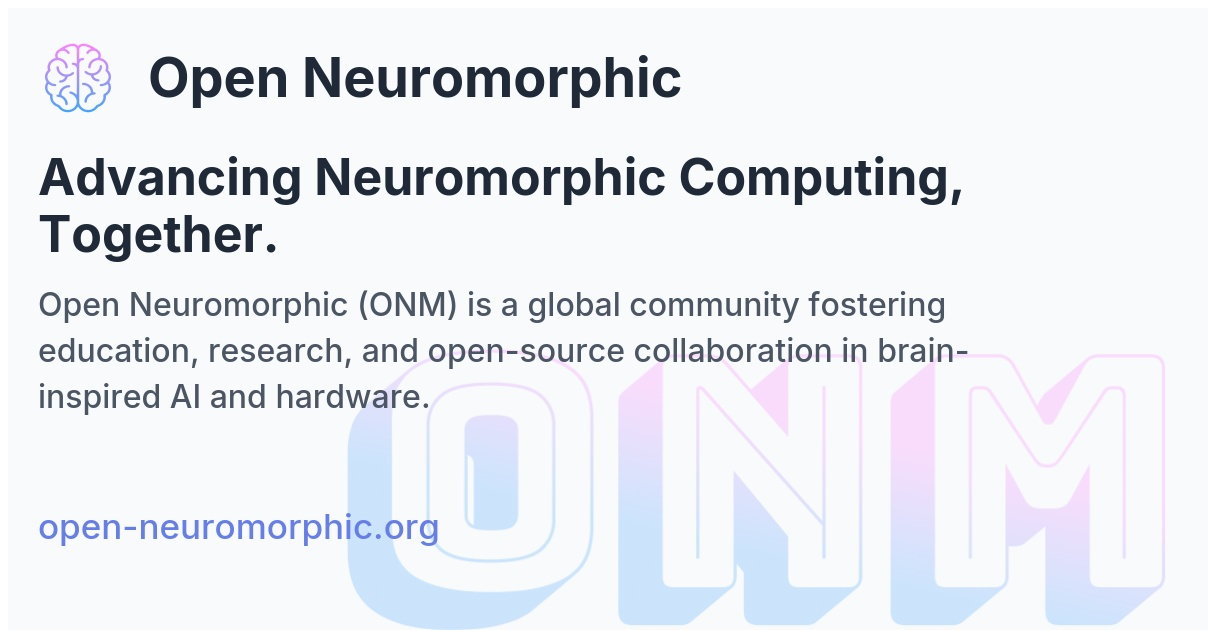
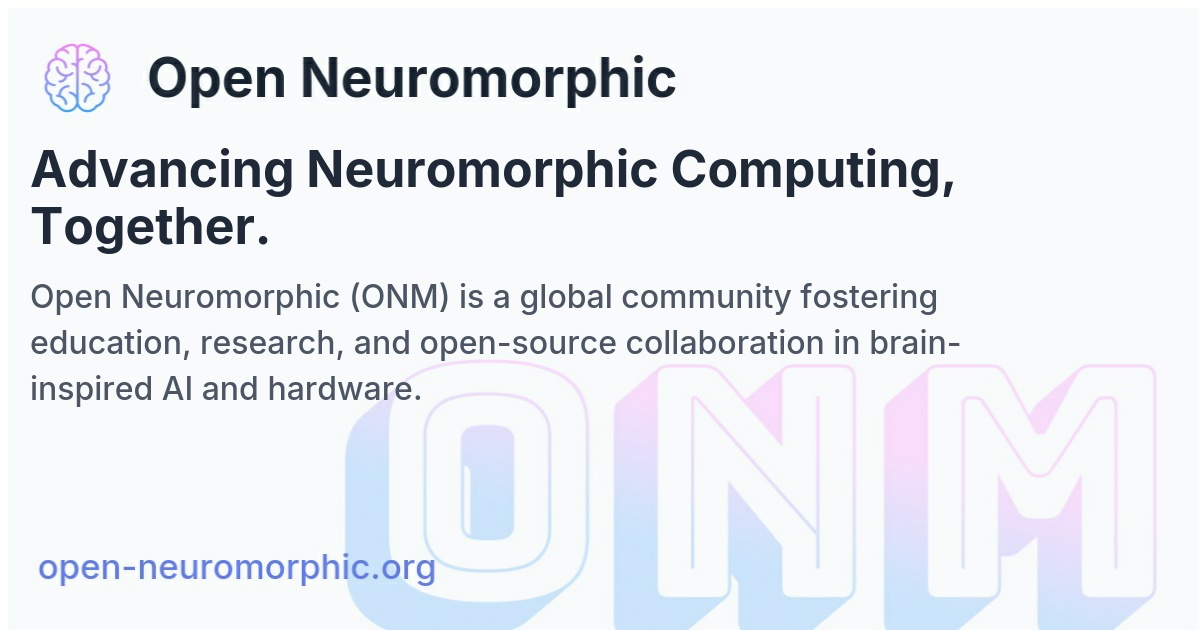
Refactor: og-image generation to use layered approach
This change refactors the OG image generation process to use a layered approach, creating a base image and overlaying text. This improves efficiency and maintainability.

diff --git a/scripts/generateImagesFromData.js b/scripts/generateImagesFromData.js
@@ -5,8 +5,13 @@ const { execSync } = require('child_process');
 
 // --- Configuration ---
 const PROJECT_ROOT = process.cwd();
-const TEMPLATE_PATH = join(PROJECT_ROOT, 'assets', 'og-template', 'template.html');
-const INPUT_JSON_PATH = join(PROJECT_ROOT, 'tmp', 'ogImageData.json');
+const TMP_DIR = join(PROJECT_ROOT, 'tmp');
+const BASE_TEMPLATE_PATH = join(PROJECT_ROOT, 'assets', 'og-template', 'base-template.html');
+const OVERLAY_TEMPLATE_PATH = join(PROJECT_ROOT, 'assets', 'og-template', 'text-overlay-template.html');
+const INPUT_JSON_PATH = join(TMP_DIR, 'ogImageData.json');
+
+const BASE_IMAGE_TMP_HTML = join(TMP_DIR, 'base-og-temp.html');
+const BASE_IMAGE_OUTPUT_PATH = join(TMP_DIR, 'base-og.jpg');
 const OUTPUT_FORMAT = 'jpg';
 const JPEG_QUALITY = 95;
 
@@ -15,18 +20,37 @@ async function pathExists(path) {
   try { await stat(path); return true; } catch { return false; }
 }
 
+async function generateBaseImage(logoUri, backgroundUri) {
+  console.log('🖼  Generating base OG image...');
+  if (!(await pathExists(BASE_TEMPLATE_PATH))) {
+    throw new Error(`Base template not found: ${BASE_TEMPLATE_PATH}`);
+  }
+  const baseTemplateContent = await readFile(BASE_TEMPLATE_PATH, 'utf8');
+
+  const htmlContent = baseTemplateContent
+    .replace('LOGO_SRC', logoUri)
+    .replace('BACKGROUND_URL', backgroundUri);
+
+  await writeFile(BASE_IMAGE_TMP_HTML, htmlContent);
+
+  const command = `wkhtmltoimage --enable-local-file-access --quality ${JPEG_QUALITY} --format ${OUTPUT_FORMAT} --width 1200 --height 630 "${BASE_IMAGE_TMP_HTML}" "${BASE_IMAGE_OUTPUT_PATH}"`;
+  execSync(command, { stdio: 'pipe' });
+  
+  await unlink(BASE_IMAGE_TMP_HTML); // Clean up temp html
+  console.log(`✅  Base OG image created at: ${BASE_IMAGE_OUTPUT_PATH}`);
+  return `file://${BASE_IMAGE_OUTPUT_PATH}`;
+}
+
 // --- Main Image Generation Logic ---
 async function generateImages() {
-  console.log(`🖼 Starting OG image generation...`);
+  console.log(`🖼 Starting page-specific OG image generation...`);
 
   // --- Pre-flight checks ---
-  if (!(await pathExists(TEMPLATE_PATH))) {
-    console.error(`❌ Template not found: ${TEMPLATE_PATH}`);
-    process.exit(1);
-  }
   if (!(await pathExists(INPUT_JSON_PATH))) {
-    console.error(`❌ Data file not found: ${INPUT_JSON_PATH}. Run collect script first.`);
-    process.exit(1);
+    throw new Error(`❌ Data file not found: ${INPUT_JSON_PATH}. Run collect script first.`);
+  }
+  if (!(await pathExists(OVERLAY_TEMPLATE_PATH))) {
+    throw new Error(`❌ Overlay template not found: ${OVERLAY_TEMPLATE_PATH}`);
   }
   try {
     execSync('wkhtmltoimage --version', { stdio: 'ignore' });
@@ -36,27 +60,27 @@ async function generateImages() {
   }
 
   // --- Read data and template ---
-  const templateContent = await readFile(TEMPLATE_PATH, 'utf8');
+  const overlayTemplateContent = await readFile(OVERLAY_TEMPLATE_PATH, 'utf8');
   const jsonData = JSON.parse(await readFile(INPUT_JSON_PATH, 'utf8'));
 
   if (!jsonData || !jsonData.pages || jsonData.pages.length === 0) {
     console.warn('⚠ No pages to process.');
     return;
   }
+  
+  // --- Generate the single base image first ---
+  const baseImageFileUrl = await generateBaseImage(jsonData.logoDataUri, jsonData.backgroundDataUri);
 
   let successCount = 0;
   let errorCount = 0;
-  const logoDataUri = jsonData.logoDataUri || '';
-  const backgroundDataUri = jsonData.backgroundDataUri || '';
 
-  // --- Process each page ---
+  // --- Process each page using the base image ---
   for (const pageData of jsonData.pages) {
     const { title, description, outputPath, tempHtmlPath } = pageData;
 
     try {
-      const htmlContent = templateContent
-        .replace('LOGO_SRC', logoDataUri)
-        .replace('BACKGROUND_URL', backgroundDataUri) // Using BACKGROUND_URL placeholder now
+      const htmlContent = overlayTemplateContent
+        .replace('BASE_IMAGE_URL', baseImageFileUrl)
         .replace('PAGE_TITLE', title)
         .replace('PAGE_DESCRIPTION', description);
 

diff --git a/assets/og-template/text-overlay-template.html b/assets/og-template/text-overlay-template.html
@@ -1,0 +1,76 @@
+<!DOCTYPE html>
+<html>
+<head>
+  <meta charset="utf-8">
+  <title>OG Image Text Overlay</title>
+  <style>
+    body, html {
+      margin: 0;
+      padding: 0;
+    }
+    .canvas {
+      position: relative;
+      width: 1200px;
+      height: 630px;
+      background-image: url('BASE_IMAGE_URL');
+      background-size: 1200px 630px;
+      background-repeat: no-repeat;
+      font-family: 'Inter', Arial, sans-serif;
+      overflow: hidden;
+    }
+    .container {
+      position: absolute;
+      top: 30px;
+      left: 30px;
+      width: 950px;
+      height: 550px;
+    }
+    .main-content {
+      width: 100%;
+      height: 100%;
+      display: flex;
+      flex-direction: column;
+      justify-content: center;
+      padding-top: 110px; /* To account for the header in the base image */
+      box-sizing: border-box;
+    }
+    .title {
+      font-size: 50px;
+      font-weight: 700;
+      line-height: 1.15;
+      color: #1f2937;
+      margin: 0 0 20px 0;
+      display: -webkit-box;
+      -webkit-line-clamp: 3;
+      -webkit-box-orient: vertical;
+      overflow: hidden;
+      text-overflow: ellipsis;
+      text-align: left;
+    }
+    .description {
+      font-size: 32px;
+      font-weight: 400;
+      line-height: 1.45;
+      color: #4b5563;
+      margin: 0 0 20px 0;
+      display: -webkit-box;
+      -webkit-line-clamp: 3;
+      -webkit-box-orient: vertical;
+      overflow: hidden;
+      text-overflow: ellipsis;
+      text-align: left;
+    }
+  </style>
+  <link href="https://fonts.googleapis.com/css2?family=Inter:wght@400;500;600;700&display=swap" rel="stylesheet">
+</head>
+<body>
+  <div class="canvas">
+    <div class="container">
+      <div class="main-content">
+        <h1 class="title">PAGE_TITLE</h1>
+        <p class="description">PAGE_DESCRIPTION</p>
+      </div>
+    </div>
+  </div>
+</body>
+</html>

diff --git a/assets/og-template/base-template.html b/assets/og-template/base-template.html
@@ -2,7 +2,7 @@
 <html>
 <head>
   <meta charset="utf-8">
-  <title>OG Image</title>
+  <title>OG Image Base</title>
   <style>
     /* Use a wrapper to act as our canvas and positioning context */
     .canvas {
@@ -78,33 +78,6 @@
       white-space: nowrap;
     }
 
-    .title {
-      font-size: 50px;
-      font-weight: 700;
-      line-height: 1.15;
-      color: #1f2937;
-      margin: 0 0 20px 0;
-      display: -webkit-box;
-      -webkit-line-clamp: 3;
-      -webkit-box-orient: vertical;
-      overflow: hidden;
-      text-overflow: ellipsis;
-      text-align: left;
-    }
-    .description {
-      font-size: 32px;
-      font-weight: 400;
-      line-height: 1.45;
-      color: #4b5563;
-      margin: 0 0 20px 0;
-      display: -webkit-box;
-      -webkit-line-clamp: 3;
-      -webkit-box-orient: vertical;
-      overflow: hidden;
-      text-overflow: ellipsis;
-      text-align: left;
-    }
-
     .site-name {
       font-size: 35px;
       font-weight: 500;
@@ -129,8 +102,7 @@
         <img src="LOGO_SRC" alt="Site Logo" class="logo">
         <div class="logo-text">Open Neuromorphic</div>
       </div>
-      <h1 class="title">PAGE_TITLE</h1>
-      <p class="description">PAGE_DESCRIPTION</p>
+      <!-- Title and Description are removed from the base template -->
       <div class="site-name">open-neuromorphic.org</div>
     </div>
   </div>
